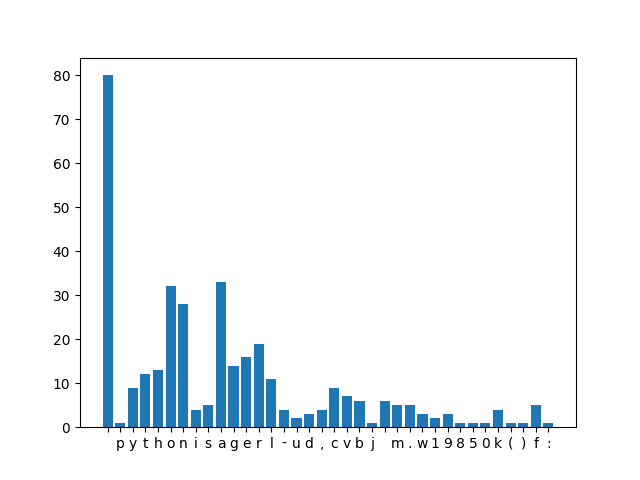
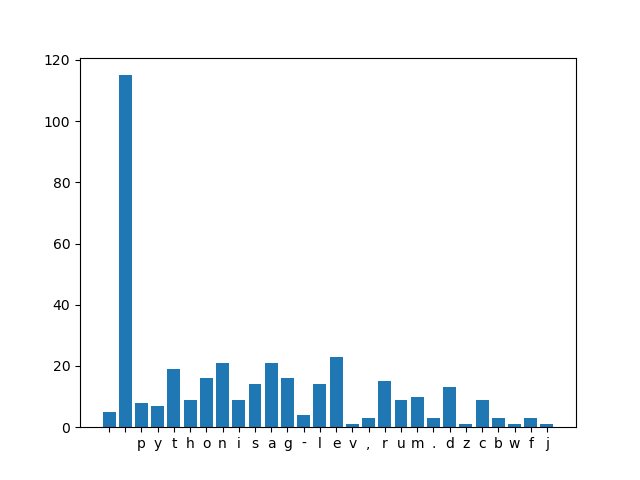
updated to pylint standards

diff --git a/3 Minor projects/character_plot/main.py b/3 Minor projects/character_plot/main.py
@@ -1,30 +1,33 @@
 import matplotlib.pyplot as plt
 
-para = ''' Python is a general-purpose interpreted, interactive, object-oriented, and high-level 
-programming language. It was created by Guido van Rossum during 1985- 1990. Like Perl, Python source 
-code is also available under the GNU General Public License (GPL). This tutorial gives enough understanding 
-on Python programming language.
-Python is a MUST for students and working professionals to become a great Software Engineer specially when 
-they are working in Web Development Domain. I will list down some of the key advantages of learning Python:
-'''
 
-counter = {}
+def main():
 
-for letter in para:
-    counter[letter.lower()] = counter.get(letter, 0) + 1
+    sentence = """
+                Python is a high-level, general-purpose programming language. Its design philosophy emphasizes 
+                code readability with the use of significant indentation. Python is dynamically typed and 
+                garbage-collected. It supports multiple programming paradigms, including structured, object-oriented 
+                and functional programming
+                """
+    counter = {}
+    for letter in sentence:
+        counter[letter.lower()] = counter.get(letter, 0) + 1
 
-x, y = zip(*counter.items())
-plt.bar(x, y)
-plt.show()
+    x_value, y_value = zip(*counter.items())
+    plt.bar(x_value, y_value)
+    plt.show()
 
-counter_clean = {}
-for key, value in counter.items():
-    if key.isalpha():
-        counter_clean[key] = value
+    counter_clean = {}
+    for key, value in counter.items():
+        if key.isalpha():
+            counter_clean[key] = value
 
-x, y = zip(*counter_clean.items())
+    x_value, y_value = zip(*counter_clean.items())
 
-plt.plot(x, y, color='blue', marker='o', linestyle='dotted',
-     linewidth=2, markersize=8)
-plt.show()
+    plt.plot(x_value, y_value, color='blue', marker='o', linestyle='dotted',
+        linewidth=2, markersize=8)
+    plt.show()
 
+
+if __name__ == '__main__':
+    main()

diff --git a/3 Minor projects/character_plot/readme.md b/3 Minor projects/character_plot/readme.md
@@ -1,13 +1,13 @@
 # Data Visualizing using matplotlib
 
-### Matplotlib is a python module/Library for data visualization. Here we are taking a paragraph of text and plotting the characters with the occurrence of the characters. There are many ploting options in matplotlib we are using the basic ones.
+### Matplotlib is a python module/Library for data visualization. Here we are taking a paragraph of text and plotting the characters with the occurrence of the characters. There are many ploting options in matplotlib we are using the basic ones
 
-### We are using the Pyplot function (collection of functions) available with Matplotlib.
+### We are using the Pyplot function (collection of functions) available with Matplotlib
 
-### The plot with all the characters against the number of times they occur.
+### The plot with all the characters against the number of times they occur
 
 <img src="myplot.png" height="500" width="800">
 
-### The plot with all the newline characters and punctuations removed.
+### The plot with all the newline characters and punctuations removed
 
 <img src="myplot2.png" height="500" width="800">
